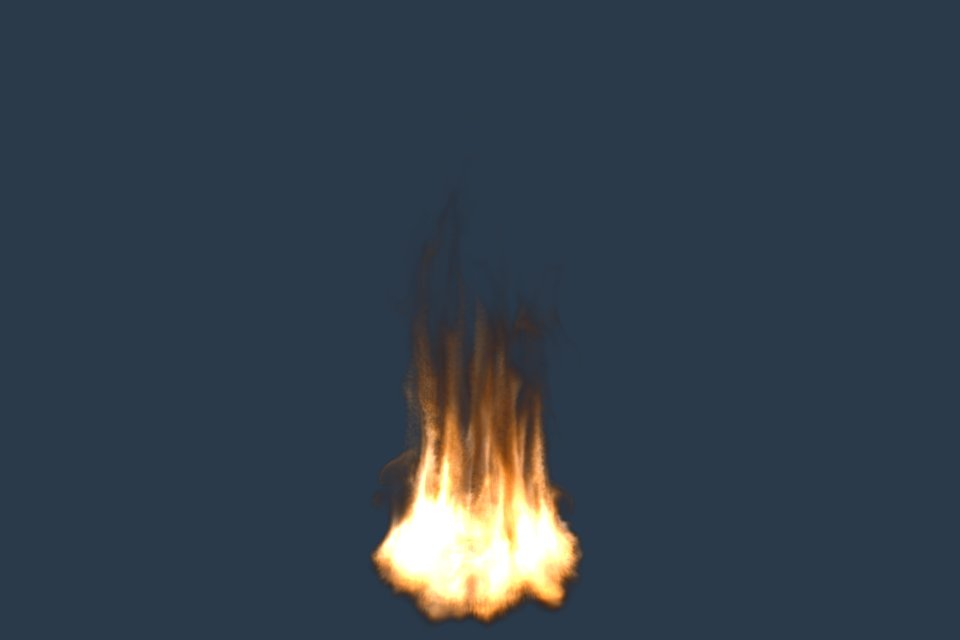
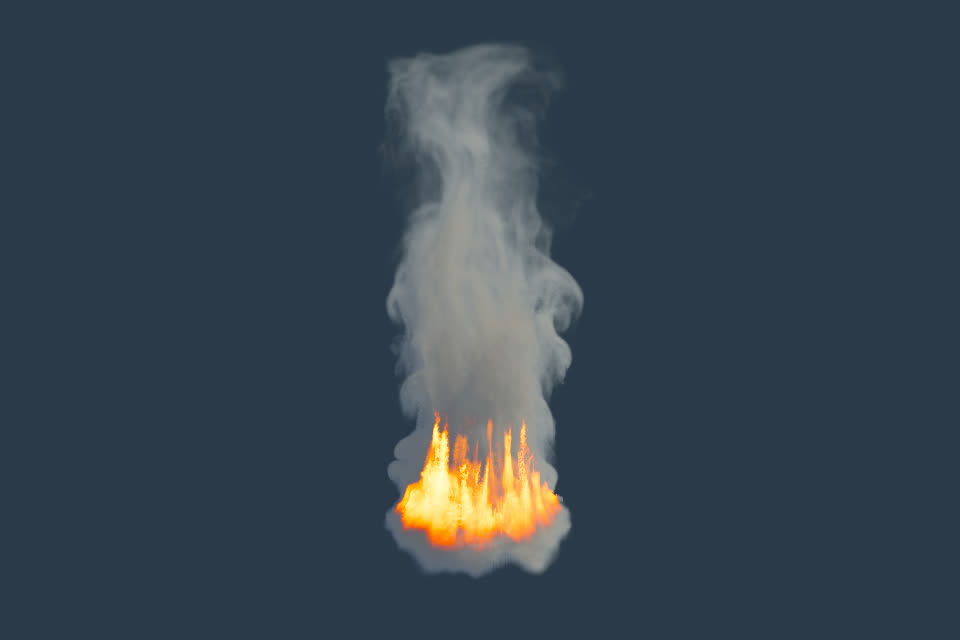
Render the openvdb.org fire with the fire view
The model loads its density and temperature grids and goes through the
same emission-absorption model as the animated sequence, with a kelvin
per unit factor for its arbitrary temperature scale. New screenshot.

Changed region(s): [[0.375, 0.0625, 0.625, 0.9688]]

diff --git a/examples/index.html b/examples/index.html
@@ -63,7 +63,7 @@
 				'smoke (openvdb.org)': { url: openvdb + 'smoke.vdb', grid: 'density', threshold: 0.1, range: 0.1, opacity: 0.03 },
 				'smoke2 (openvdb.org)': { url: openvdb + 'smoke2.vdb', grid: 'density', threshold: 0.02, range: 0.02, opacity: 0.08 },
 				'smoke2 velocity (openvdb.org)': { url: openvdb + 'smoke2.vdb', grid: 'v', view: 'direction', scale: 0.05, threshold: 0.15, range: 0.1, opacity: 0.04 },
-				'fire (openvdb.org)': { url: openvdb + 'fire.vdb', grid: 'temperature', view: 'blackbody', scale: 0.025, threshold: 0.05, range: 0.05, opacity: 0.06 }
+				'fire (openvdb.org)': { url: openvdb + 'fire.vdb', grids: [ 'density', 'temperature' ], view: 'fire', kelvin: 33, extinction: 60 }
 			};
 
 			const views = {
@@ -109,7 +109,7 @@
 				gui.add( parameters, 'opacity', 0, 1, 0.01 ).onChange( update )
 			];
 			const fireControls = [
-				gui.add( parameters, 'extinction', 0, 60, 0.5 ).onChange( update ),
+				gui.add( parameters, 'extinction', 0, 200, 0.5 ).onChange( update ),
 				gui.add( parameters, 'albedo', 0, 1, 0.01 ).onChange( update ),
 				gui.add( parameters, 'emission', 0, 2, 0.01 ).onChange( update ),
 				gui.add( parameters, 'exposure', 0, 4, 0.01 ).onChange( update ),
@@ -167,7 +167,7 @@
 
 				} else {
 
-					grids = await new VDBLoader().setGridNames( [ model.grid ] ).loadAsync( model.url );
+					grids = await new VDBLoader().setGridNames( model.grids ?? [ model.grid ] ).loadAsync( model.url );
 
 					if ( id !== generation ) return;
 
@@ -195,7 +195,7 @@
 				camera.far = radius * 10;
 				camera.updateProjectionMatrix();
 
-				const type = model.sequence ? 'fire' : grid.texture.format === THREE.RGBAFormat ? 'vector' : 'scalar';
+				const type = model.view === 'fire' ? 'fire' : grid.texture.format === THREE.RGBAFormat ? 'vector' : 'scalar';
 
 				parameters.view = model.view ?? views[ type ][ 0 ];
 				parameters.threshold = model.threshold ?? 0;
@@ -357,6 +357,7 @@
 					// Fire view: the simulator's emission-absorption model.
 					uniform sampler2D blackbodyMap;
 					uniform vec2 blackbodyRange;
+					uniform float kelvinScale;     // kelvin per unit of the temperature grid
 					uniform float extinction;      // soot extinction per unit of box length at ambient temperature
 					uniform float albedo;          // soot single scattering albedo
 					uniform float emission;        // exposure on the blackbody radiance
@@ -428,7 +429,7 @@
 
 					float kelvinAt( vec3 p ) {
 
-						return texture( map2, p + 0.5 ).r * remap2.x + remap2.y + AMBIENT_K;
+						return ( texture( map2, p + 0.5 ).r * remap2.x + remap2.y ) * kelvinScale + AMBIENT_K;
 
 					}
 
@@ -627,6 +628,7 @@
 						exposure: { value: 1 },
 						blackbodyMap: { value: blackbodyMap },
 						blackbodyRange: { value: new THREE.Vector2( 300, 3000 ) },
+						kelvinScale: { value: model.kelvin ?? 1 },
 						extinction: { value: 20 },
 						albedo: { value: 0.25 },
 						emission: { value: 0.3 },

diff --git a/README.md b/README.md
@@ -8,7 +8,7 @@ Above, 240 frames of NanoVDB, 38 MB, streamed and decoded in web workers while i
 
 <img src="examples/screenshots/torusknot.jpg" width="24%"> <img src="examples/screenshots/smoke.jpg" width="24%"> <img src="examples/screenshots/fire.jpg" width="24%"> <img src="examples/screenshots/velocity.jpg" width="24%">
 
-Above, single OpenVDB files: a torus knot fog volume, the openvdb.org smoke, its fire shaded as a blackbody from the temperature grid, and the velocity of the second smoke coloured by direction. Each grid becomes one `Data3DTexture`, raymarched in a fragment shader.
+Above, single OpenVDB files: a torus knot fog volume, the openvdb.org smoke, its fire rendered from the density and temperature grids with the same model as the animation, and the velocity of the second smoke coloured by direction. Each grid becomes one `Data3DTexture`, raymarched in a fragment shader.
 
 ```
 npm install three-vdb-loader
